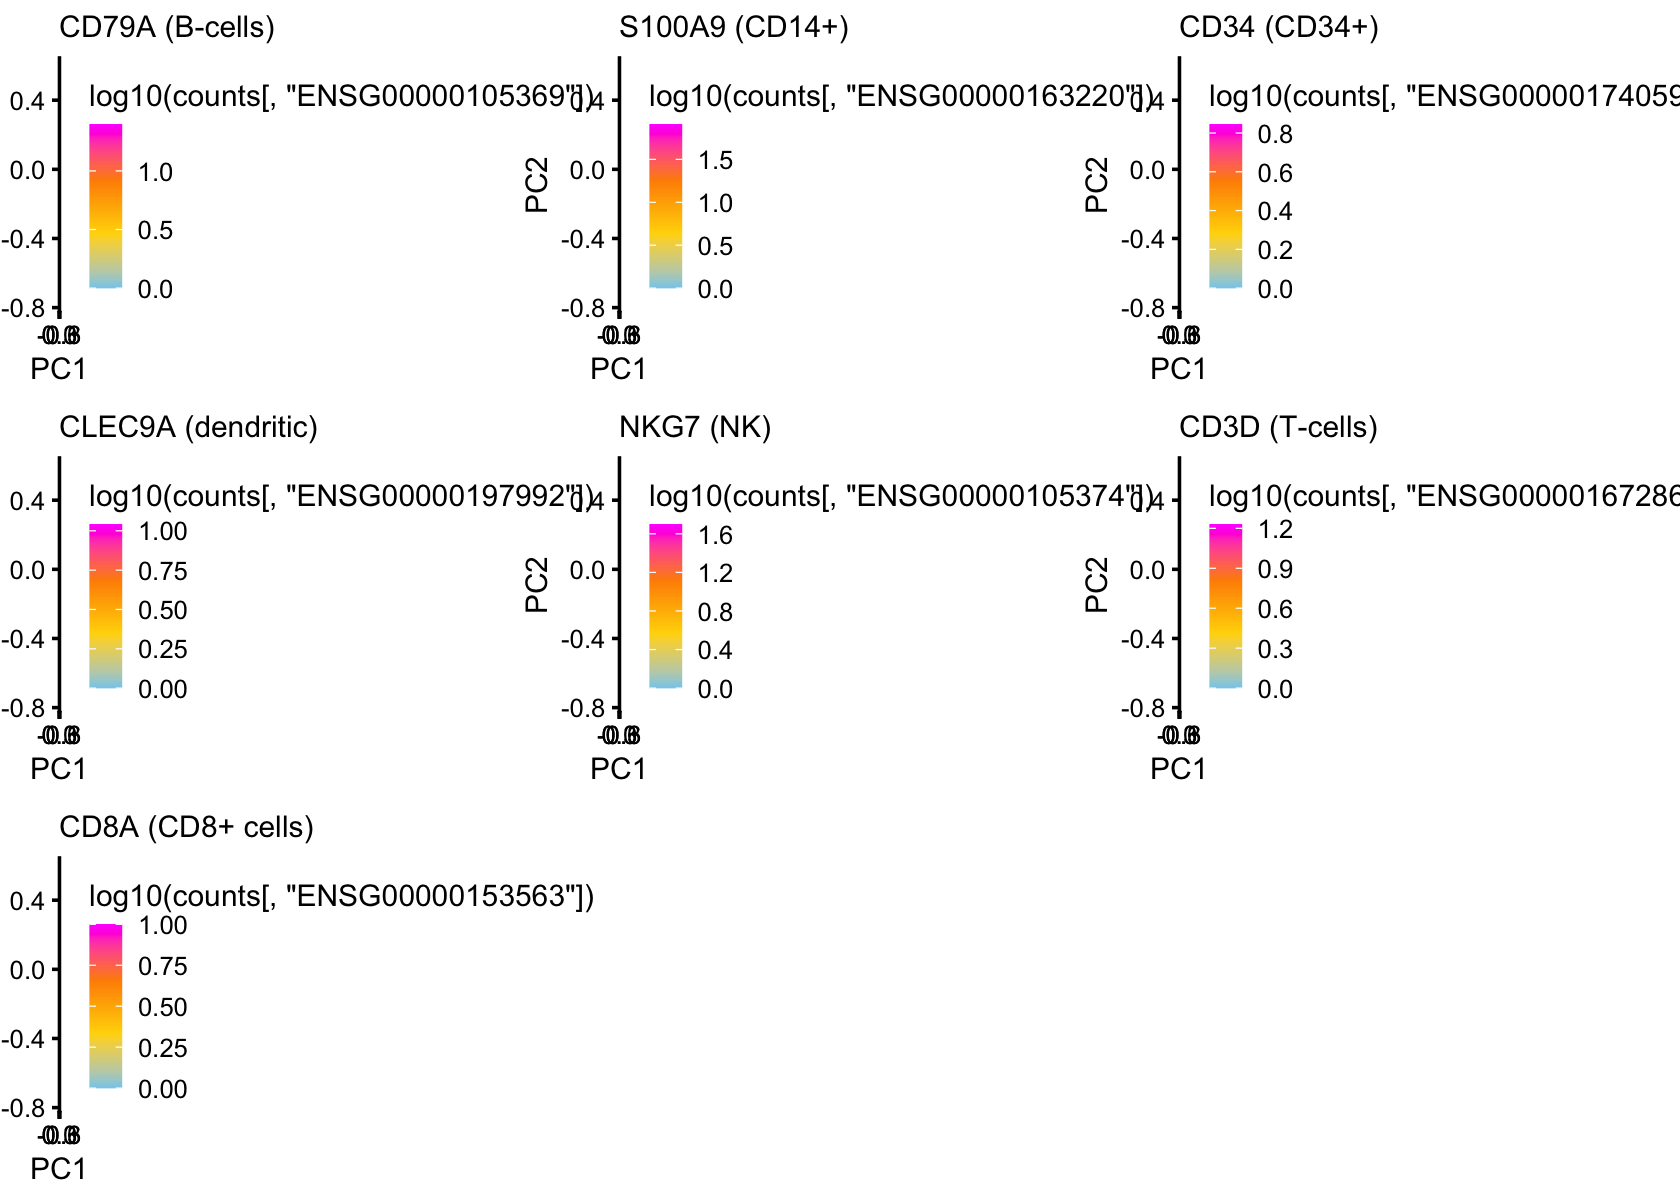
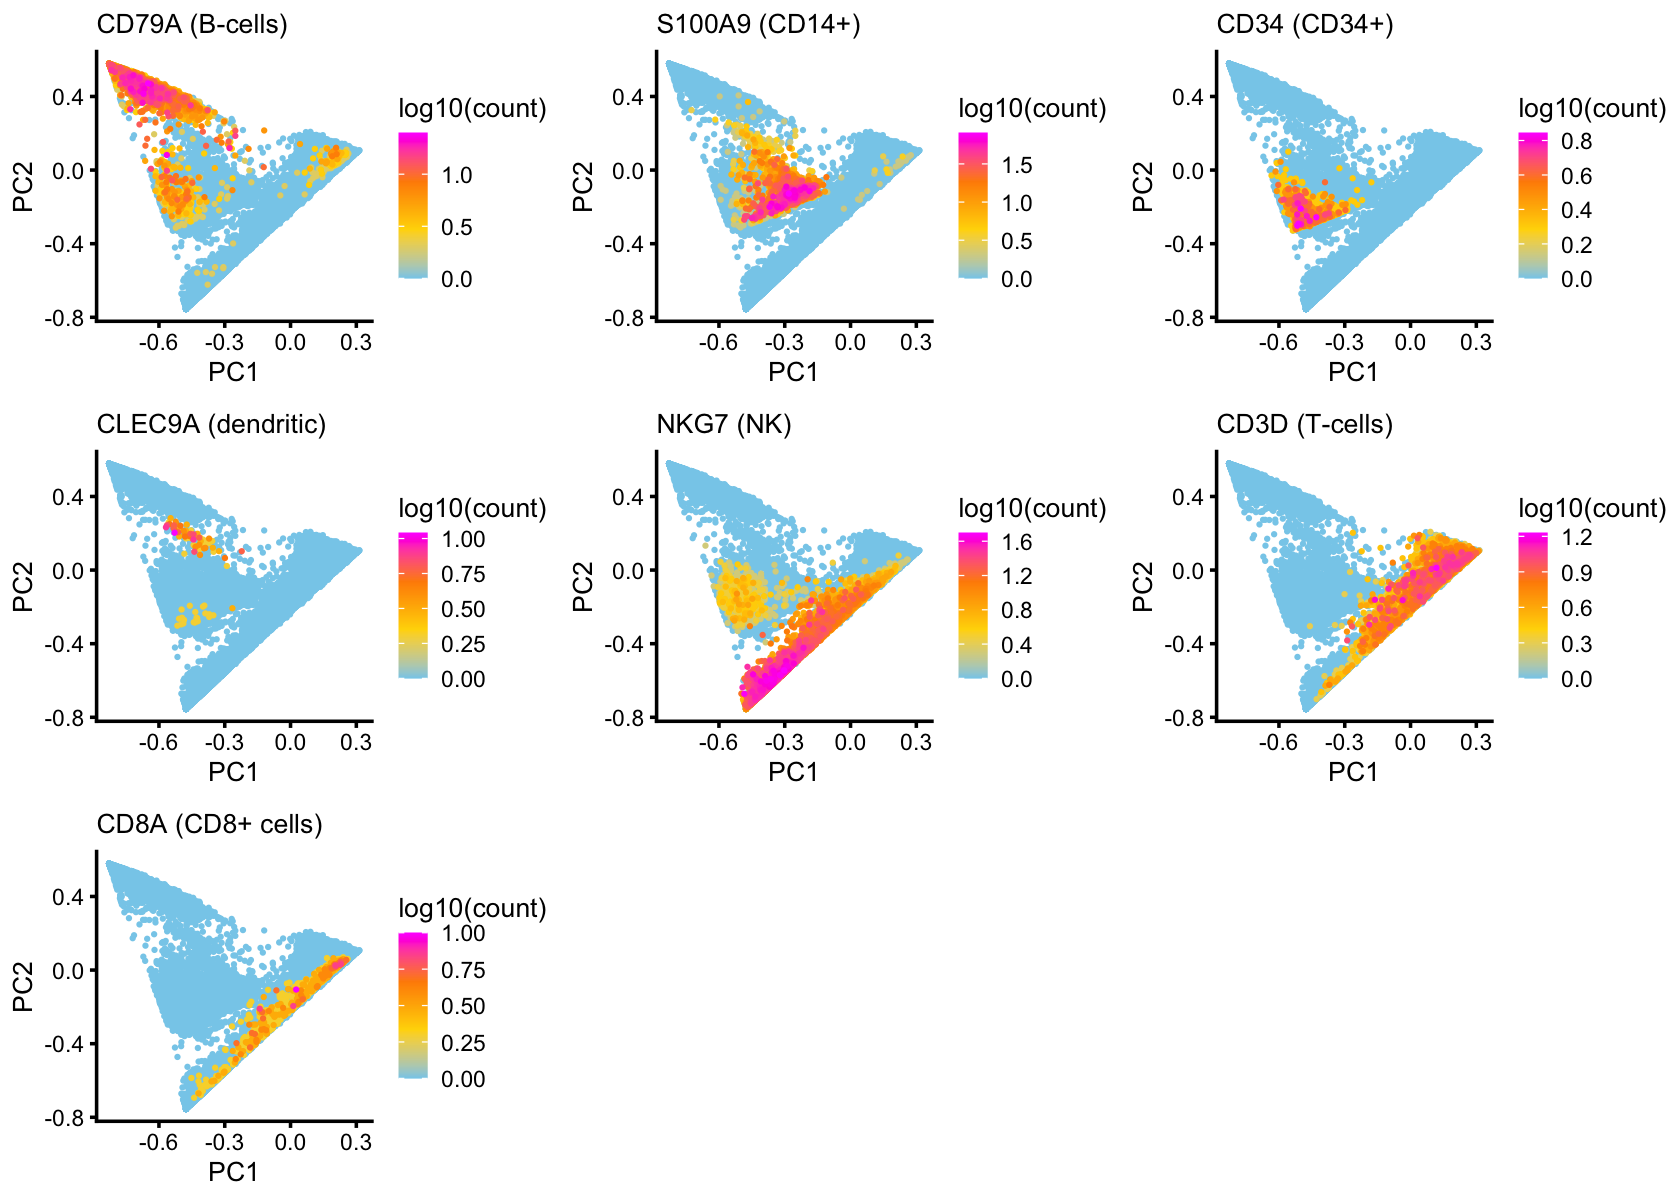
Improved PCA expression	plots in clusters_purified_pbmc analysis.

diff --git a/docs/clusters_purified_pbmc.html b/docs/clusters_purified_pbmc.html
@@ -323,7 +323,7 @@ $(document).ready(function () {
 <div class="tab-content">
 <div id="summary" class="tab-pane fade in active">
 <p>
-<strong>Last updated:</strong> 2020-11-28
+<strong>Last updated:</strong> 2020-11-29
 </p>
 <p>
 <strong>Checks:</strong> <span class="glyphicon glyphicon-ok text-success" aria-hidden="true"></span> 7 <span class="glyphicon glyphicon-exclamation-sign text-danger" aria-hidden="true"></span> 0
@@ -414,16 +414,16 @@ This reproducible <a href="http://rmarkdown.rstudio.com">R Markdown</a> analysis
 <div class="panel panel-default">
 <div class="panel-heading">
 <p class="panel-title">
-<a data-toggle="collapse" data-parent="#workflowr-checks" href="#strongRepositoryversionstrongahrefhttpsgithubcomstephenslabsinglecelltopicstree2de8504e9fa7fc2be9b721781a5bc179f5acc0d6targetblank2de8504a"> <span class="glyphicon glyphicon-ok text-success" aria-hidden="true"></span> <strong>Repository version:</strong> <a href="https://github.com/stephenslab/single-cell-topics/tree/2de8504e9fa7fc2be9b721781a5bc179f5acc0d6" target="_blank">2de8504</a> </a>
+<a data-toggle="collapse" data-parent="#workflowr-checks" href="#strongRepositoryversionstrongahrefhttpsgithubcomstephenslabsinglecelltopicstree95f7750ccdfda35252cf11d6c4c7d685f6fdf7b9targetblank95f7750a"> <span class="glyphicon glyphicon-ok text-success" aria-hidden="true"></span> <strong>Repository version:</strong> <a href="https://github.com/stephenslab/single-cell-topics/tree/95f7750ccdfda35252cf11d6c4c7d685f6fdf7b9" target="_blank">95f7750</a> </a>
 </p>
 </div>
[2 lines of base64/hex data omitted]
 <div class="panel-body">
 <p>
 Great! You are using Git for version control. Tracking code development and connecting the code version to the results is critical for reproducibility.
 </p>
 <p>
-The results in this page were generated with repository version <a href="https://github.com/stephenslab/single-cell-topics/tree/2de8504e9fa7fc2be9b721781a5bc179f5acc0d6" target="_blank">2de8504</a>. See the <em>Past versions</em> tab to see a history of the changes made to the R Markdown and HTML files.
+The results in this page were generated with repository version <a href="https://github.com/stephenslab/single-cell-topics/tree/95f7750ccdfda35252cf11d6c4c7d685f6fdf7b9" target="_blank">95f7750</a>. See the <em>Past versions</em> tab to see a history of the changes made to the R Markdown and HTML files.
 </p>
 <p>
 Note that you need to be careful to ensure that all relevant files for the analysis have been committed to Git prior to generating the results (you can use <code>wflow_publish</code> or <code>wflow_git_commit</code>). workflowr only checks the R Markdown file, but you know if there are other scripts or data files that it depends on. Below is the status of the Git repository when the results were generated:
@@ -493,6 +493,40 @@ Message
 </tr>
 </thead>
 <tbody>
+<tr>
+<td>
+Rmd
+</td>
+<td>
+<a href="https://github.com/stephenslab/single-cell-topics/blob/95f7750ccdfda35252cf11d6c4c7d685f6fdf7b9/analysis/clusters_purified_pbmc.Rmd" target="_blank">95f7750</a>
+</td>
+<td>
+Peter Carbonetto
+</td>
+<td>
+2020-11-29
+</td>
+<td>
+workflowr::wflow_publish(“clusters_purified_pbmc.Rmd”)
+</td>
+</tr>
+<tr>
+<td>
+html
+</td>
+<td>
+<a href="https://rawcdn.githack.com/stephenslab/single-cell-topics/a42db5027d2c4005f5cc0657af334cae0f86f093/docs/clusters_purified_pbmc.html" target="_blank">a42db50</a>
+</td>
+<td>
+Peter Carbonetto
+</td>
+<td>
+2020-11-28
+</td>
+<td>
+Added PCA expression plots to clusters_purified_pbmc analysis.
+</td>
+</tr>
 <tr>
 <td>
 Rmd
@@ -1273,43 +1307,80 @@ Peter Carbonetto
   ggplot(dat,aes_string(x = pcs[1],y = pcs[2],color = &quot;y&quot;)) +
     geom_point(shape = 20,size = 0.5) +
     labs(x = pcs[1],y = pcs[2],fill = fill.label) +
-    scale_color_gradientn(na.value = &quot;lightskyblue&quot;,
+    scale_color_gradientn(na.value = &quot;skyblue&quot;,
                           colors=c(&quot;skyblue&quot;,&quot;gold&quot;,&quot;darkorange&quot;,&quot;magenta&quot;)) +
     theme_cowplot(font_size = 8) +
     theme(plot.title = element_text(size = 8,face = &quot;plain&quot;))
-p5a &lt;- pca_plot(poisson2multinom(fit),
-                fill = log10(counts[,&quot;ENSG00000105369&quot;]),
-                ggplot_call = pca_ggplot_call) +
+x   &lt;- counts[,&quot;ENSG00000105369&quot;]
+p5a &lt;- pca_plot(select(poisson2multinom(fit),loadings = order(x)),
+                fill = log10(sort(x)),ggplot_call = pca_ggplot_call) +
        labs(title = &quot;CD79A (B-cells)&quot;,color = &quot;log10(count)&quot;)
-p5b &lt;- pca_plot(poisson2multinom(fit),
-                fill = log10(counts[,&quot;ENSG00000163220&quot;]),
-                ggplot_call = pca_ggplot_call) +
+x   &lt;- counts[,&quot;ENSG00000163220&quot;]
+p5b &lt;- pca_plot(select(poisson2multinom(fit),loadings = order(x)),
+                fill = log10(sort(x)),ggplot_call = pca_ggplot_call) +
        labs(title = &quot;S100A9 (CD14+)&quot;,color = &quot;log10(count)&quot;)
-p5c &lt;- pca_plot(poisson2multinom(fit),
-                fill = log10(counts[,&quot;ENSG00000174059&quot;]),
-                ggplot_call = pca_ggplot_call) +
+x   &lt;- counts[,&quot;ENSG00000174059&quot;]
+p5c &lt;- pca_plot(select(poisson2multinom(fit),loadings = order(x)),
+                fill = log10(sort(x)),ggplot_call = pca_ggplot_call) +
        labs(title = &quot;CD34 (CD34+)&quot;,color = &quot;log10(count)&quot;)
-p5d &lt;- pca_plot(poisson2multinom(fit),
-                fill = log10(counts[,&quot;ENSG00000197992&quot;]),
-                ggplot_call = pca_ggplot_call) +
+x   &lt;- counts[,&quot;ENSG00000197992&quot;]
+p5d &lt;- pca_plot(select(poisson2multinom(fit),loadings = order(x)),
+                fill = log10(sort(x)),ggplot_call = pca_ggplot_call) +
        labs(title = &quot;CLEC9A (dendritic)&quot;,color = &quot;log10(count)&quot;)
-p5e &lt;- pca_plot(poisson2multinom(fit),
-                fill=log10(counts[,&quot;ENSG00000105374&quot;]),
-                ggplot_call = pca_ggplot_call) +
+x   &lt;- counts[,&quot;ENSG00000105374&quot;]
+p5e &lt;- pca_plot(select(poisson2multinom(fit),loadings = order(x)),
+                fill = log10(sort(x)),ggplot_call = pca_ggplot_call) +
        labs(title = &quot;NKG7 (NK)&quot;,color = &quot;log10(count)&quot;)
-p5f &lt;- pca_plot(poisson2multinom(fit),
-                fill = log10(counts[,&quot;ENSG00000167286&quot;]),
-                ggplot_call = pca_ggplot_call) +
+x    &lt;- counts[,&quot;ENSG00000167286&quot;]
+p5f &lt;- pca_plot(select(poisson2multinom(fit),loadings = order(x)),
+                fill = log10(sort(x)),ggplot_call = pca_ggplot_call) +
        labs(title = &quot;CD3D (T-cells)&quot;,color = &quot;log10(count)&quot;)
-p5g &lt;- pca_plot(poisson2multinom(fit),
-                fill = log10(counts[,&quot;ENSG00000153563&quot;]),
-                ggplot_call = pca_ggplot_call) +
+x   &lt;- counts[,&quot;ENSG00000153563&quot;]
+p5g &lt;- pca_plot(select(poisson2multinom(fit),loadings = order(x)),
+                fill = log10(sort(x)),ggplot_call = pca_ggplot_call) +
        labs(title = &quot;CD8A (CD8+ cells)&quot;,color = &quot;log10(count)&quot;)
 plot_grid(p5a,p5b,p5c,
           p5d,p5e,p5f,
           p5g,
           nrow = 3,ncol = 3)</code></pre>
 <p><img src="figure/clusters_purified_pbmc.Rmd/pca-plots-with-expression-1.png" width="840" style="display: block; margin: auto;" /></p>
+<p>
+<button type="button" class="btn btn-default btn-xs btn-workflowr btn-workflowr-fig" data-toggle="collapse" data-target="#fig-pca-plots-with-expression-1">
+Past versions of pca-plots-with-expression-1.png
+</button>
+</p>
+<div id="fig-pca-plots-with-expression-1" class="collapse">
+<div class="table-responsive">
+<table class="table table-condensed table-hover">
+<thead>
+<tr>
+<th>
+Version
+</th>
+<th>
+Author
+</th>
+<th>
+Date
+</th>
+</tr>
+</thead>
+<tbody>
+<tr>
+<td>
+<a href="https://github.com/stephenslab/single-cell-topics/blob/a42db5027d2c4005f5cc0657af334cae0f86f093/docs/figure/clusters_purified_pbmc.Rmd/pca-plots-with-expression-1.png" target="_blank">a42db50</a>
+</td>
+<td>
+Peter Carbonetto
+</td>
+<td>
+2020-11-28
+</td>
+</tr>
+</tbody>
+</table>
+</div>
+</div>
 </div>
 <div id="structure-plot" class="section level2">
 <h2>Structure plot</h2>
@@ -1327,12 +1398,12 @@ rows &lt;- sort(c(sample(which(samples$cluster == &quot;B&quot;),1000),
                which(samples$cluster == &quot;dendritic&quot;)))
 x  &lt;- samples[rows,&quot;cluster&quot;]
 x  &lt;- factor(x,c(&quot;B&quot;,&quot;CD14+&quot;,&quot;CD34+&quot;,&quot;dendritic&quot;,&quot;NK&quot;,&quot;CD8+&quot;,&quot;T&quot;))
-p5 &lt;- structure_plot(select(poisson2multinom(fit),loadings = rows),
+p6 &lt;- structure_plot(select(poisson2multinom(fit),loadings = rows),
                      grouping = x,topics = topics,
                      colors = topic_colors[topics],
                      perplexity = c(70,30,30,30,30,30,70),n = Inf,gap = 50,
                      num_threads = 4,verbose = FALSE)
-print(p5)</code></pre>
+print(p6)</code></pre>
 <p><img src="figure/clusters_purified_pbmc.Rmd/structure-plot-1.png" width="960" style="display: block; margin: auto;" /></p>
 <p>
 <button type="button" class="btn btn-default btn-xs btn-workflowr btn-workflowr-fig" data-toggle="collapse" data-target="#fig-structure-plot-1">
@@ -1422,22 +1493,22 @@ rows &lt;- sort(sample(rows,2000))
 fit2 &lt;- select(poisson2multinom(fit),loadings = rows)
 x    &lt;- samples$cluster[rows,drop = TRUE]</code></pre>
 <p>Next, run PCA on the topic proportions for this random subset of 2,000 samples.</p>
-<pre class="r"><code>p6 &lt;- pca_plot(fit2,fill = x) + labs(fill = &quot;cluster&quot;)</code></pre>
+<pre class="r"><code>p7 &lt;- pca_plot(fit2,fill = x) + labs(fill = &quot;cluster&quot;)</code></pre>
 <p>Run <em>t</em>-SNE on the topic proportions.</p>
 <pre class="r"><code>tsne &lt;- Rtsne(fit2$L,dims = 2,pca = FALSE,normalize = FALSE,perplexity = 100,
               theta = 0.1,max_iter = 1000,eta = 200,verbose = FALSE)
 tsne$x &lt;- tsne$Y
 colnames(tsne$x) &lt;- c(&quot;tsne1&quot;,&quot;tsne2&quot;)
-p7 &lt;- pca_plot(fit2,out.pca = tsne,fill = x) + labs(fill = &quot;cluster&quot;)</code></pre>
+p8 &lt;- pca_plot(fit2,out.pca = tsne,fill = x) + labs(fill = &quot;cluster&quot;)</code></pre>
 <p>Then run UMAP on the topic proportions.</p>
 <pre class="r"><code>out.umap &lt;- umap(fit2$L,n_neighbors = 30,metric = &quot;euclidean&quot;,n_epochs = 1000,
                  min_dist = 0.1,scale = &quot;none&quot;,learning_rate = 1,
                  verbose = FALSE)
 out.umap &lt;- list(x = out.umap)
 colnames(out.umap$x) &lt;- c(&quot;umap1&quot;,&quot;umap2&quot;)
-p8 &lt;- pca_plot(fit2,out.pca = out.umap,fill = x) + labs(fill = &quot;cluster&quot;)</code></pre>
+p9 &lt;- pca_plot(fit2,out.pca = out.umap,fill = x) + labs(fill = &quot;cluster&quot;)</code></pre>
 <p>Here are the 2-d embeddings, side-by-side:</p>
-<pre class="r"><code>plot_grid(p6,p7,p8,nrow = 1)</code></pre>
+<pre class="r"><code>plot_grid(p7,p8,p9,nrow = 1)</code></pre>
 <p><img src="figure/clusters_purified_pbmc.Rmd/pca-vs-tsne-1.png" width="960" style="display: block; margin: auto;" /></p>
 <p>
 <button type="button" class="btn btn-default btn-xs btn-workflowr btn-workflowr-fig" data-toggle="collapse" data-target="#fig-pca-vs-tsne-1">
@@ -1514,7 +1585,7 @@ Peter Carbonetto
 # 
 # other attached packages:
 # [1] cowplot_1.0.0      ggplot2_3.3.0      uwot_0.1.8         Rtsne_0.15        
-# [5] fastTopics_0.3-184 dplyr_0.8.3        Matrix_1.2-18     
+# [5] fastTopics_0.3-185 dplyr_0.8.3        Matrix_1.2-18     
 # 
 # loaded via a namespace (and not attached):
 #  [1] ggrepel_0.9.0        Rcpp_1.0.5           lattice_0.20-38     
